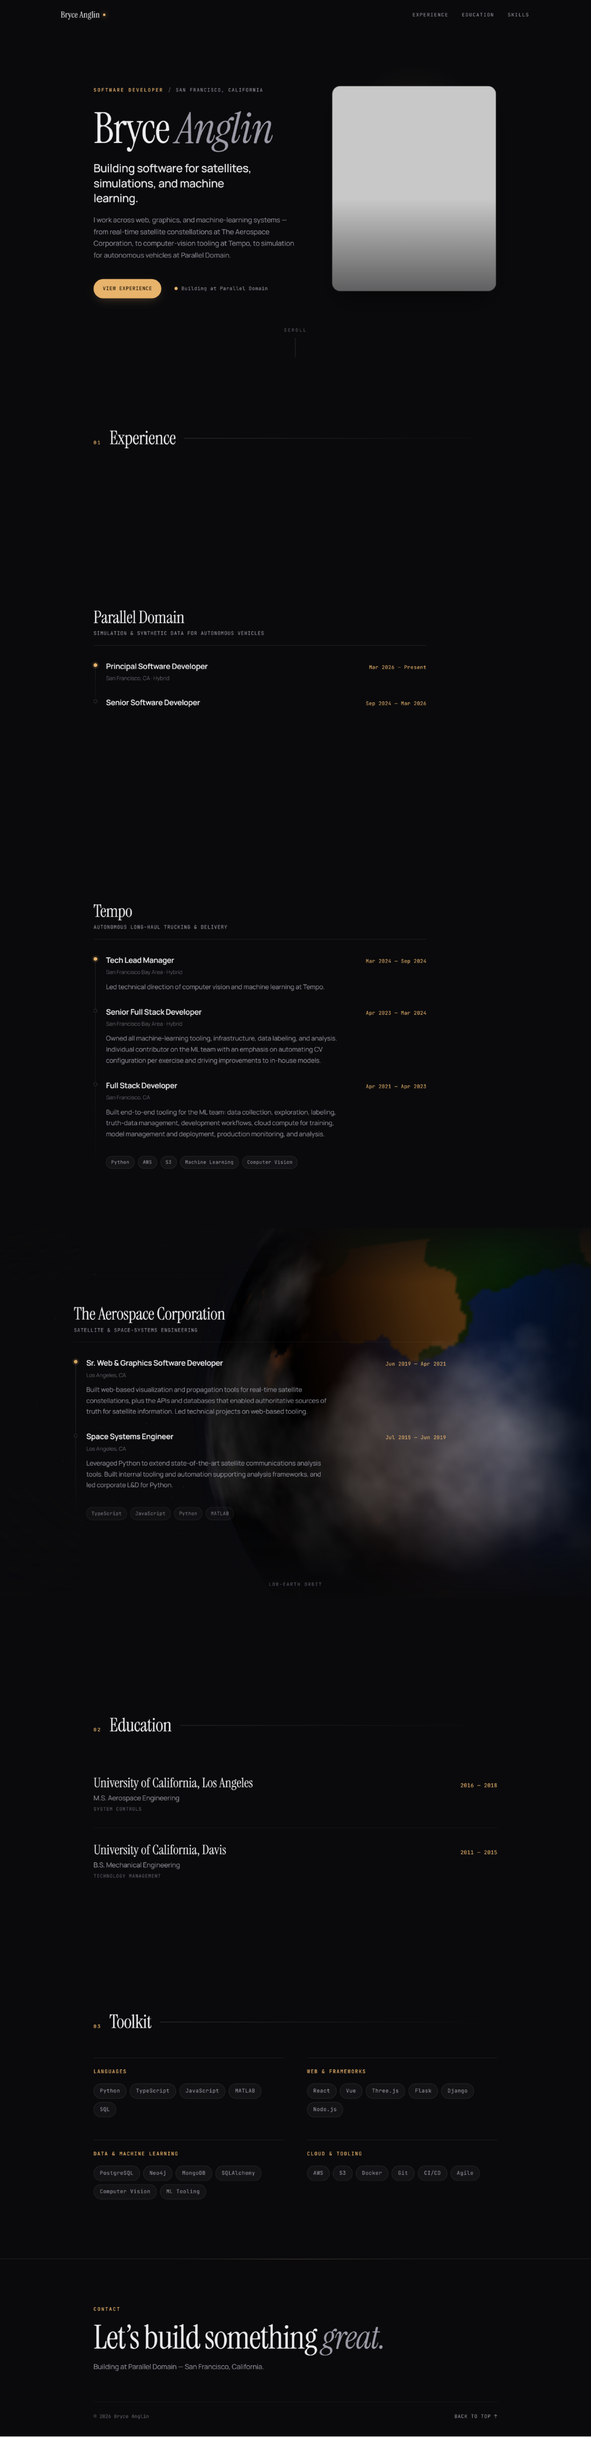
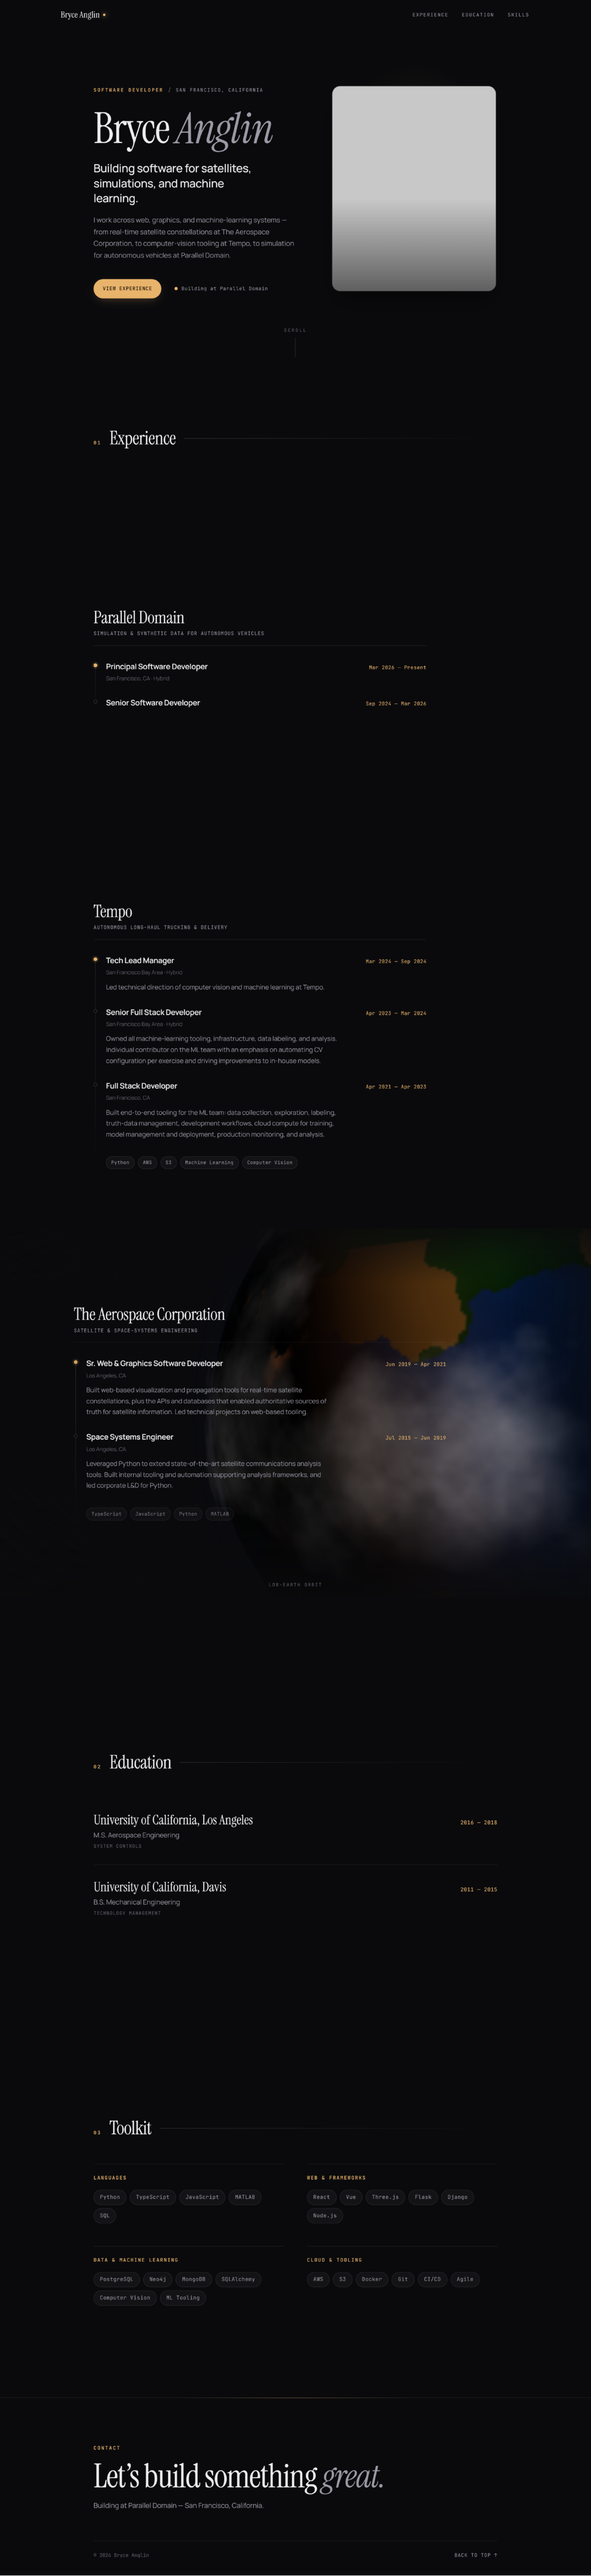
Make scroll-snapping mandatory and page each section consistently

diff --git a/src/styles/_global.scss b/src/styles/_global.scss
@@ -171,8 +171,24 @@
 @media (prefers-reduced-motion: no-preference) {
   html {
     scroll-behavior: smooth;
-    scroll-snap-type: y proximity;
+    scroll-snap-type: y mandatory;
   }
+}
+
+// Each major section is its own scroll-snap page so scrolling feels
+// consistent throughout the site instead of mixing free + paged scroll.
+.hero,
+.education,
+.skills {
+  scroll-snap-align: start;
+}
+
+.education,
+.skills {
+  min-height: 100svh;
+  display: flex;
+  flex-direction: column;
+  justify-content: center;
 }
 
 * {
